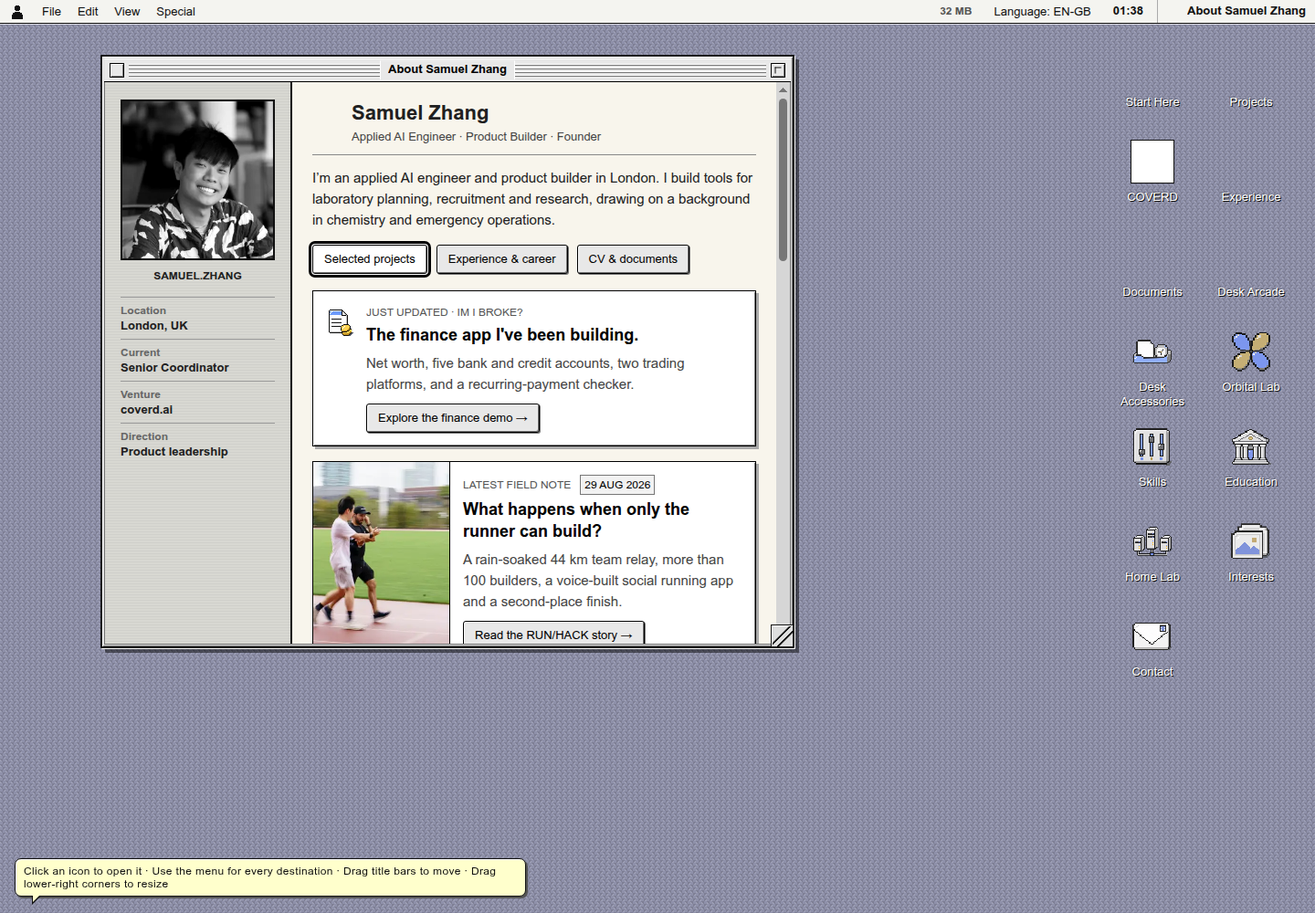
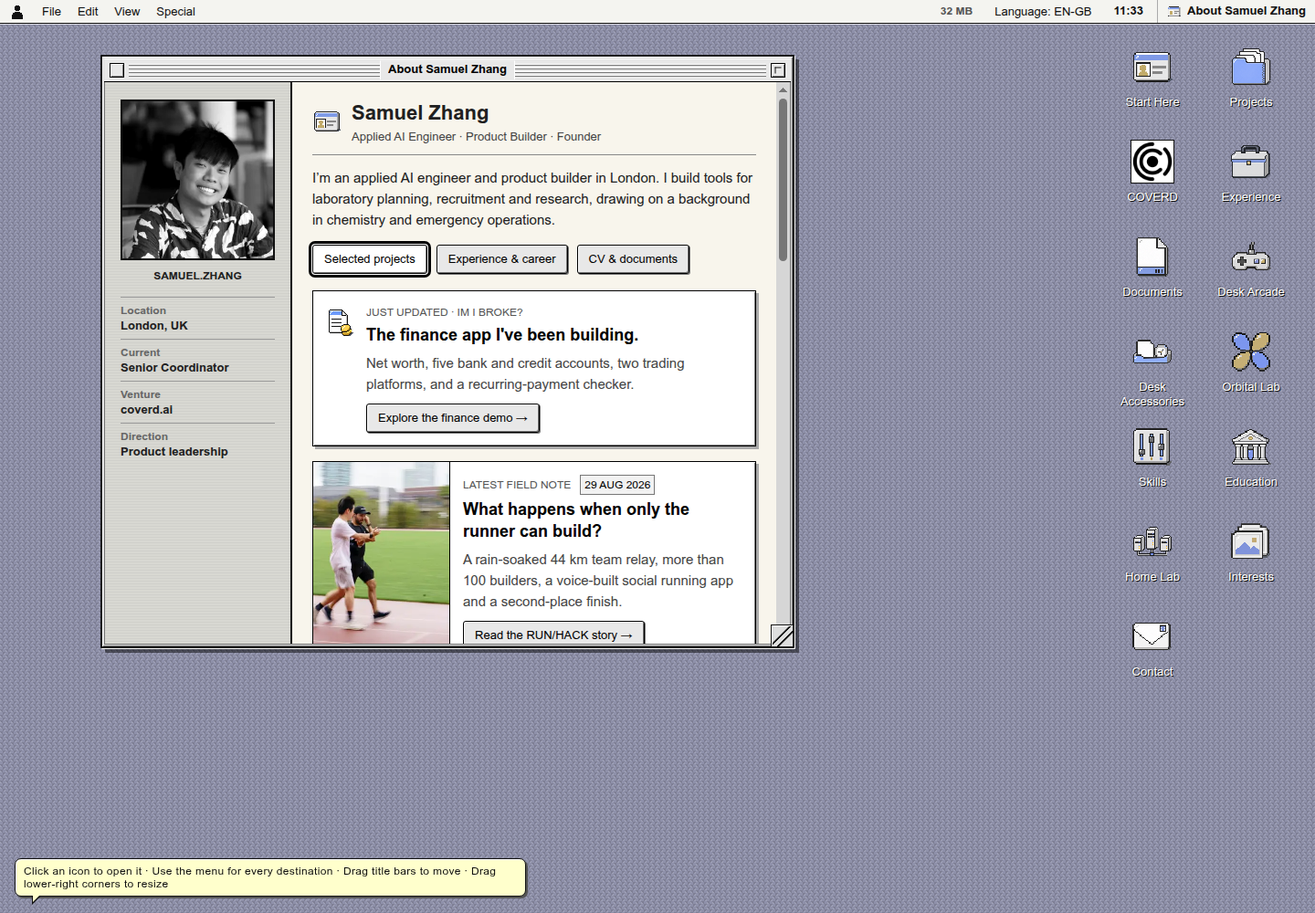
Refresh README documentation and screenshots

diff --git a/README.md b/README.md
@@ -11,13 +11,13 @@ server-side store of personal data.
 **[Browse the project archive](https://me.samuelzhang.co.uk/projects)** ·
 **[Explore Orbital Lab](https://me.samuelzhang.co.uk/orbitals)**
 
-**41 project files · 9 desk apps · 4 languages · no account required**
+**41 project files · 28 routed demos · 9 desk apps · 4 languages · no account required**
 
 [Tour](#a-quick-look) · [Apps](#the-desk-apps) · [Run locally](#local-development-on-port-5174) · [Deploy](#docker-deployment) · [Verification](#validation) · [Publication & licensing](#publication-and-licensing)
 
 Current implementation and validation: [documentation index](docs/README.md). The [verification guide](docs/VERIFICATION.md) records current checks, earlier scopes and known limits.
 
-![Samuel System 7 desktop with its About window and shared pixel icons](docs/assets/desktop.png)
+![Samuel System 7 desktop with its About window, all desktop launchers and COVERD's original logo](docs/assets/desktop.png?v=20261005)
 
 ## A quick look
 
@@ -25,7 +25,7 @@ A familiar title bar. A useful little notebook. An orbital you can turn in your
 hands. The old desktop language is the starting point; the interactions are
 built for today's browsers, keyboards and touch screens.
 
-![Searchable project list and independently scrolling project document](docs/assets/project-archive.png)
+![All 41 project files in the searchable archive beside the selected Neural CFD Surrogates document](docs/assets/project-archive.png?v=20261005)
 
 <table>
   <tr>
@@ -34,7 +34,7 @@ built for today's browsers, keyboards and touch screens.
   </tr>
   <tr>
     <td><img src="docs/assets/orbital-density.png" alt="Sharp phase-coloured probability points in Orbital Lab" width="560" /></td>
-    <td><img src="docs/assets/mobile-note-pad.png" alt="Traditional Chinese Note Pad on a phone, with aligned ruled text and clear page controls" width="240" /></td>
+    <td><img src="docs/assets/mobile-note-pad.png?v=20261005" alt="Traditional Chinese Note Pad on a phone, with saved notes, aligned ruled text and clear page controls" width="240" /></td>
   </tr>
 </table>
 
@@ -48,7 +48,12 @@ uses display-timed animation, starts paused, and respects reduced-motion setting
 
 </details>
 
-The images are reference captures. The current audit records validation of the reviewed revision. The deployed site may remain on an earlier revision until the server owner runs the deployment script.
+The desktop, project archive and mobile Note Pad were recaptured on 5 October
+2026 from a production build of the current checkout. The orbital image and
+animation remain earlier reference captures. The last recorded production deployment is
+`aed8ebc`, verified on 5 October 2026 with public HTTPS, artwork hashes and
+four-locale desktop/phone checks. The [verification guide](docs/VERIFICATION.md)
+records later checkout changes separately from that deployment.
 
 ## The desk apps
 
@@ -61,7 +66,7 @@ Every app has its own archive record; the records launch the same desktop window
 | Quick List | Small tasks, priorities and completion | Local autosave and desk backup |
 | Focus Clock | Timed focus sessions and a daily tally | Local progress and desk backup |
 | Pocket Calendar | Private notes attached to dates | Local autosave and desk backup |
-| Desk Calculator | Everyday arithmetic with a paper tape | Copy result, local tape and desk backup |
+| Desk Calculator | Chained arithmetic with a paper tape | Copy result, local tape and desk backup |
 | Unit Converter | Length, mass, temperature and decimal data units | Copy result |
 | Colour Studio | Palette swatches and contrast checks | Local swatches and desk backup |
 | Orbital Lab | ASCII, probability points and smooth orbital surfaces | Text/PNG exports with model context |
@@ -102,6 +107,7 @@ clean black-and-white structure, and familiar visual metaphors.
 - Chicago-first window/menu chrome, Geneva-first content and Monaco/Courier
   machine readouts, with language-appropriate CJK fallbacks.
 - 48 × 48 desktop launchers and primary project heading icons, 32 × 32 card/Find/Contact/phone-switcher icons, and 16 × 16 inline/menu/navigation artwork.
+- Text-only centered window and Find titles, a bounded 14px gray stripe band and larger touch hit areas. The active app icon appears on the right of the main menu bar; the black person mark and official university logos retain their own branding.
 - Slightly rounded push buttons, square pop-up menus, hard one-pixel relief,
   separate default-action and keyboard-focus rings, and restrained project
   colour. The [System 7 benchmark](docs/SYSTEM7_DESIGN_BENCHMARK.md) distinguishes
@@ -192,7 +198,8 @@ boundaries or comparable atomic sizes. The smooth surface is a sampled 1%-of-pea
 resolves high-n cores; small features below the 80-cell grid can still be omitted.
 
 The interface has all four locales, with separate Mandarin terminology for
-Mainland China and Taiwan. Element names retain their English reference labels.
+Mainland China and Taiwan. All 118 element names, accessible labels and export
+headings are localised; chemical symbols and scientific notation retain their spelling.
 The bounded sampler and renderer make no runtime third-party calls and rotation
 starts paused. Surface meshing runs in a same-origin worker with a three-entry
 cache. 3D uses WebGL and falls back to ASCII if unavailable; no account, chemistry
@@ -219,8 +226,9 @@ Open tabs in the same browser receive saved-state updates. Note Pad, Sketch Pad,
 
 ## Technology
 
-- Next.js 15 App Router
-- React 19 and TypeScript
+- Next.js 15.5.25 App Router
+- React 19.1.0 and TypeScript
+- Locally prepared PDF.js readers, KaTeX equations and deferred project search indexes
 - Hand-written CSS and generated System 7 icon artwork
 - Static generation for locale and application routes
 - Standalone, non-root Docker runtime
@@ -303,15 +311,16 @@ npm run check:release
 
 This includes deployment-script simulations, search checks, dependency auditing
 and signature verification, lint, TypeScript checking and an isolated production
-build. The build also runs the artifact, data, desk, control, orbital, catalogue,
-style, locale and output-budget gates. No production server is changed by this
+build. The build also runs the artifact, icon, data, desk, PDF, control, orbital,
+learning, scientific, catalogue, profile, graph, navigation, math, style, locale,
+project-copy and output-budget gates. No production server is changed by this
 command. You can run each `check:*` script separately while working.
 
 `npm run build` runs all portfolio gates automatically. The artifact gate rejects unexpected files and verifies reviewed assets by size, signature and SHA-256; the local-data gate pins the reviewed CSV schema and bytes; the desk-behaviour gate covers timer rollover and numeric-entry regressions against the actual shared helpers; the catalogue gate checks unique routes/demos, disclosure rules, source-licence status, local artifact paths and HTTPS references; the CSS-module gate verifies that every static project style reference resolves; and the locale gate keeps archive schemas aligned while preventing untranslated System 7 chrome, project summaries or suite descriptions from silently shipping.
 
 `npm run check:math` validates actual expressions with the strict KaTeX parser, accessible component output and local font assets. The output gate caps the shared math-renderer chunk at 300 KiB and rejects its inclusion in initial page entries. Initial-route JavaScript has a 270 KiB gzip ceiling. Application browser output has a 5 MiB ceiling excluding the separately checked math chunk; application runtime has its own 5 MiB ceiling including math. These ceilings were increased from 4 MiB for the explicit bilingual project dictionaries and are separate from initial page cost. KaTeX uses 20 local WOFF2 fonts (253.7 KiB) and 30.6 KiB of CSS.
 
-The [verification guide](docs/VERIFICATION.md) separates the latest visual checkpoint from earlier navigation, reader, accessibility and history checks. The earlier `effc55f` implementation passed its representative screenshot review and three-engine icon matrix; the later user review identified icon detail lost during export. The current pass restores native originals and checks all 28 routed demos for desktop/mobile readability. Historical results remain distinct from fresh verification. The final compiled pass includes the three-engine icon matrix, 160 demo/app journeys and focused cross-browser diagram checks. Completed raw evidence is archived outside the checkout; temporary receipts stay ignored.
+The [verification guide](docs/VERIFICATION.md) records each implementation's tested scope. The [native-artwork release](docs/VERIFICATION.md#native-artwork-release-verification-d29d92d) includes all 28 routed demos, 160 compiled demo/app journeys, the three-engine icon matrix and focused diagram checks. The [call-scheduling follow-up](docs/VERIFICATION.md#call-scheduling-follow-up) records four-locale desktop/phone link and keyboard checks. The [5 October Docker deployment](docs/VERIFICATION.md#5-october-docker-context-repair) records the actual production build and public-origin verification. Earlier navigation, reader, accessibility and history checks retain their own boundaries. Completed raw evidence is archived outside the checkout; temporary receipts stay ignored.
 
 `npm run audit:repository` produces a read-only source/asset/fixture ownership inventory. The deeper HTTP, browser, recovery and accessibility runners are documented in the current review; they use a compiled preview and external QA tools. The ordinary release build stays independent of those external browser installations.
 
@@ -358,6 +367,11 @@ material stays out. `deploy.sh` runs this check before building the image.
 These are build-only inputs; the final image copies the standalone
 application and reviewed public assets.
 
+The 5 October repair also keeps maskable-icon verification portable across native
+compositors: the gate checks source-over arithmetic and the reviewed PNG's exact
+SHA-256. The successful ARM64 Alpine deployment and the failed builds that led
+to both repairs are recorded in the [deployment evidence](docs/VERIFICATION.md#5-october-docker-context-repair).
+
 Basic manual container commands (without the script's verification/rollback):
 
 ```bash
@@ -399,6 +413,7 @@ src/data/               # Reviewed projects, profile, documents and fixtures
 src/lib/                # Identity, localization, evidence and shared calculations
 public/                 # Curated public PDFs, icons and scientific media
 scripts/                # Asset preparation and reusable release/browser checks
+scripts/fixtures/       # Validation inputs, including 30 project-copy audit receipts
 others/                 # Maintained CV authoring sources
 docs/                  # Design, provenance, workflows and verification
 LICENSE                 # Original-code reuse conditions

diff --git a/docs/VERIFICATION.md b/docs/VERIFICATION.md
@@ -38,6 +38,26 @@ The black person mark is restored at the top left. Education uses official King'
 
 Automated development captures cover the primary views of all **28 routed project demos** at 1440, 390 and 320px. The first nineteen have full en-GB/zh-TW capture matrices; the other nine have complete English matrices and additional Mandarin affected-state coverage. Changes stay in project modules: contrast, wrapping, controls, navigation and chart viewports. Scientific values, evidence qualifications and meaningful project colours are preserved. The independent judge directly inspected one desktop and one phone content state for each of all 28 demos, plus additional plot, interaction, Mandarin and branding samples. The first pass scored 9.2 coherence  / 8.7 readability and exposed calibration hover, framework metadata, insurance labels and course score-badge issues. A fresh affected-state re-review scored **9.2/10 coherence, 9.0/10 readability and 9.3/10 native icon fidelity** after repair. These are representative development grades. Independent compiled cross-review later exposed crowded Home map labels, undersized CFD schematic text and Insurance selected-state contrast. Those repairs preserve scientific values and project palettes. Compiled checks are recorded separately and screenshots do not establish production deployment.
 
+## README screenshot refresh (5 October 2026)
+
+Replaced the desktop and project-archive README captures at **1440×1000**, and the Traditional Chinese Note Pad capture at **390×844**, using an isolated optimized production build. These are native browser screenshots at device-pixel ratio 1, with no image retouching or rescaling. The desktop shows all 13 launcher identities, including COVERD's owned logo; the archive shows all 41 files beside the selected Neural CFD Surrogates document. README image URLs have a new cache revision and the captions distinguish these captures from the retained earlier orbital image/animation and the recorded production deployment.
+
+The build uses `a50289f` plus the existing working-tree changes. All **466 frozen source/asset inputs** match before compilation and after capture. `NEXT_DIST_DIR=.next-readme-screenshots npm run build` passed every prebuild gate, lint, types, optimized compilation and output validation, including the profile, graph, locale and icon checks. Output remains within unchanged limits: **120 browser files / 5.19 MiB**, **262.8 KiB initial JavaScript gzip**, and **2,063 runtime files / 4.92 MiB application runtime**. The build's temporary TypeScript include was removed afterward, restoring the original file's exact hash while preserving unrelated changes.
+
+Focused compiled **Chromium 153.0.8010.12** checks passed four capture states: English desktop/About and archive, plus Traditional Chinese Note Pad at 390px and 320px. They include **32 unoccluded canonical-icon decodes** and **19 served artwork hashes** matching the checkout, with zero page, console, HTTP or request errors and no page/pane horizontal overflow. Archive keyboard selection, search-index loading and clearing, mobile Find launch, saved note content and keyboard page turns passed. All four final images were directly viewed; the 320px supplement stays in the evidence archive. Titles, bounded stripe bands, active-app menu icons, hard shadows and phone controls remain visible. This is a focused screenshot check, not a new deployment or replacement for the historical multi-engine matrices.
+
+Failed helper receipts remain separate: waits on off-screen lazy images, including an image clipped by its scroll pane; a textbox selector for the actual searchbox; and an expected aborted index request when the helper cleared search before loading finished. The final helper waits for painted images and fonts, checks icon occlusion and completes index loading before clearing. These helper failures do not establish application defects.
+
[1 lines of base64/hex data omitted]
+
+For this documentation publication, pending calculator code and its companion copy remain unstaged. The staged versions of all three READMEs have **50 resolving local links**; screenshot/export hashes and whitespace checks pass. Earlier receipts retain their recorded working-tree scope.
+
+## README refresh — 5 October 2026
+
+All three README files now describe the current checkout: call-booking links, localised Orbital Lab names, native artwork, the recorded Docker deployment, release gates and translation-fixture maintenance. The documentation index links the icon manifest, active audit receipts, licence and reproduction instructions. Existing implementation receipts, failed attempts and known limits remain intact.
+
+Fresh checks passed: `npm run check:profile` (12 checks), `npm run check:graph` (38 checks; 106 nodes / 387 edges), `npm run check:locales`, `npm run check:catalogue`, `npm run check:project-copy` and `npm run audit:repository`. The inventory reaches all **225 application sources**, identifies all **237 public assets** and retains **30 translation receipts**, with no unresolved imports or unowned sources/assets. All **51 local file, image and heading links** in the three READMEs resolve; `git diff --check` passes. This documentation pass adds no browser, production-build or deployment evidence. Earlier runtime receipts retain their own scope.
+
 ## Contact layout simplification
 
 Contact now presents two direct destinations: a 30-minute call through YASA and email with its full address, write action and copy action. LinkedIn, GitHub and COVERD share one profile row; London remains visible. The duplicate service tabs, machine badge, network boilerplate and decorative AppleTalk status are removed. The introduction retains the same conversation topics in shorter copy, with reviewed labels in all four locales. Five explicit Contact identities reuse the native canonical artwork at 32px, including the YASA calendar and owned COVERD logo; no new artwork or sampling changes were needed. The YASA overview/demo retain their full scheduling label and exact booking URL.

diff --git a/continue.md b/continue.md
@@ -2,9 +2,13 @@
 
 The phone working-area follow-up covers all 28 routed demos plus Documents, Desk Accessories, graph, Orbital Lab and native tools/games. Separate adversarial reviews use the shared System 7 phone contract and preserve full content, data and native artwork. Final build/browser evidence, failed rounds and limitations are recorded in [verification](docs/VERIFICATION.md); reproduce the working-area regression with `npm run check:phone-space` and an external Playwright installation. Completed QA is hash-verified outside the checkout. This follow-up has not been deployed to production.
 
+The [README screenshot refresh](docs/VERIFICATION.md#readme-screenshot-refresh-5-october-2026) replaces the desktop, 41-file archive/document and Traditional Chinese mobile Note Pad images from a fresh isolated production build. All 13 desktop launchers are visible. Four Chromium capture states, including a 320px phone supplement, pass icon hashes, layout/resource and focused keyboard checks; all final images were directly viewed. The build and all prebuild gates pass on 466 unchanged source/asset inputs. Raw evidence and failed helpers are hash-verified in the archive recorded there. This does not establish another production deployment; earlier orbital captures and historical browser scopes retain their qualifications.
+
 The [Contact layout simplification](docs/VERIFICATION.md#contact-layout-simplification) replaces redundant service tabs with direct call/email actions, a visible email address and one LinkedIn/GitHub/COVERD row. It reuses five canonical 32px icons and reviewed four-locale copy. An isolated optimized build and all prebuild gates pass; 24 profiles across three browsers verify 120 icons, 72 clipboard cases, 72 keyboard popups and 36 layouts. Completed evidence, including failed resize-helper attempts, is hash-verified outside the checkout. The YASA booking destination is unchanged; this follow-up has not been deployed.
 
 Read [verification and known limits](docs/VERIFICATION.md), [README](README.md) and [the documentation index](docs/README.md). This handoff records current maintenance instructions; earlier chronological reviews remain recoverable from Git history.
+
+All three README files now reflect the current features, localised Orbital Lab names, native artwork, deployment repairs and translation-fixture contracts. Fresh profile, graph, locale, catalogue, project-copy and ownership checks pass, along with all 51 local README links and whitespace checks. This was a documentation-only pass; browser, build and deployment evidence retains its recorded scope in [the README refresh receipt](docs/VERIFICATION.md#readme-refresh--5-october-2026).
 
 The earlier call-scheduling follow-up at `a50289f` added a shared, localized System 7 link to every Contact service tab, the YASA overview and its interactive-demo toolbar. The current Contact layout above replaces those tabs. Its exact destination is `https://schedule.coverd.ai/book/samuel/30mins-chat`, opening a new tab. Lint, production build/prebuild gates and output limits pass. Compiled Chromium checks pass 16 YASA journeys plus eight button profiles with 24 link surfaces, Contact tab checks and keyboard popups across all four locales at 1440/320px. Screenshot review confirms the phone and desktop layouts. The remote GET returned 200; routing checks intercept the popup response and do not test booking confirmation. Failed helper attempts remain distinct from passing receipts.
 
@@ -12,7 +16,7 @@ The current implementation restores all 41 untouched 1254px generated icon origi
 
 All 28 routed demos receive desktop and narrow mobile readability review across their primary views. Contrast, chart viewports, navigation, wrapping and controls change locally; scientific values, content and meaningful project palettes remain. The strict release, three-engine icon matrix and compiled demo/app journeys pass. The final 48-profile three-engine diagram/selected-state review also passes; independent affected-state visual grades meet 9+/10. Fresh scopes and historical limitations are kept separately in the verification guide. Earlier 9.1 grades at `effc55f` do not grade the restored native artwork.
 
-Cleanup consolidates the dated audit, removes the inactive media wishlist and obsolete inventory exclusions. The current inventory reaches all 225 application sources, including the shared call link and finds owners for all 237 public assets. Thirty translation audit JSONs are active gate inputs; scientific originals, CV authoring sources, browser derivatives and reusable QA runners remain. Git history retains the full earlier documentation at `effc55f`.
+Cleanup consolidates the dated audit, removes the inactive media wishlist and obsolete inventory exclusions. The current inventory reaches all 225 application sources, including the shared call link, and finds owners for all 237 public assets. Thirty translation audit JSONs are active gate inputs; scientific originals, CV authoring sources, browser derivatives and reusable QA runners remain. Git history retains the full earlier documentation at `effc55f`.
 
 Completed raw reviews move outside the checkout into hash-verified local archives under `~/.local/share/samuel-homepage/review-archive/`, preserving failures as well as passing evidence. Temporary receipts belong under ignored `.codex/reports/`.
 

diff --git a/docs/README.md b/docs/README.md
@@ -1,6 +1,10 @@
 # Documentation
 
-[README](../README.md) covers the product, setup and deployment. [Continue here](../continue.md) records the verified release checkpoint and review boundaries.
+[README](../README.md) covers the product, local setup, release checks and Docker deployment. [Continue here](../continue.md) records the current maintenance handoff and review boundaries. [AGENTS.md](../AGENTS.md) contains the repository's working instructions.
+
+The current portfolio has 41 project records, 28 routed project demos, nine desk apps, four locales, five library documents and 18 evidence-backed capabilities. The profile graph contains 106 nodes and 387 edges. Recent work restores the native icon originals, improves desktop/phone demo readability, adds Contact/YASA call-booking links.
+
+The last recorded production deployment is `aed8ebc` on 5 October 2026. Its Docker-context and maskable-icon repairs, full build and focused public-origin checks are [recorded separately](VERIFICATION.md#5-october-docker-context-repair) from later checkout changes. Read each verification section's scope before treating it as evidence for a newer revision.
 
 | Document | Purpose |
 | --- | --- |
@@ -9,7 +13,12 @@
 | [Translation workflow](PROJECT_COPY_WORKFLOW.md) | Four locales, dynamic labels, source-language exceptions and checks |
 | [System 7 design benchmark](SYSTEM7_DESIGN_BENCHMARK.md) | Maintained design contracts and primary historical sources |
 | [Artwork guide](PROJECT_ARTWORK.md) | Delivered illustrations/icons, original prompts and MRI provenance |
+| [Icon provenance manifest](SYSTEM7_ICON_PROMPTS.json) | Canonical subject prompts, source/delivery hashes and native-artwork recovery |
 | [Project source record](PROJECT_SOURCE_RECORD.md) | Original repository revisions, file hashes and recorded scientific outcomes |
+| [Project-copy audit receipts](../scripts/fixtures/project-copy-audits/README.md) | Check-only dictionary registrations, source inventories and explained source-language identities |
+| [Licence](../LICENSE) | Attribution, non-commercial use and free share-alike terms for original code |
 | [Third-party notices](../THIRD_PARTY_NOTICES.md) | Dependency and scientific-source licences/attribution |
+
+For profile or document changes, start with the profile workflow and run `npm run check:profile`, `npm run check:graph` and `npm run check:locales`. Copy changes also need `npm run check:project-copy`; icon changes need `npm run check:icons` and the compiled browser audit. Run `npm run check:release` before release. The verification guide's [reproduction instructions](VERIFICATION.md#reproduce) list the external browser tools and maintained runners; the ordinary build does not require them.
 
 Temporary review logs and screenshots belong under ignored `.codex/reports/`. Update the verification guide and concise handoff instead of adding overlapping dated reports. Archive completed local evidence outside the checkout, preserving failed attempts and their hashes. Keep scientific source records, licences and reusable QA fixtures with their consumers.

diff --git a/scripts/fixtures/project-copy-audits/README.md b/scripts/fixtures/project-copy-audits/README.md
@@ -1,5 +1,27 @@
 # Project copy audit receipts
 
-These JSON files register translation dictionaries, component/data sources and explained untranslated names for `scripts/check-project-copy.mjs`. Rendered localization checks also read their identity declarations. They are validation input, separate from the runtime dictionaries under `src/components/projects/copy/`.
+The 30 `*.audit.json` files register translation dictionaries, component/data sources and explained source-language identities for [the project-copy gate](../../check-project-copy.mjs). Rendered localisation checks also read their identity declarations. They are validation input, separate from the runtime dictionaries under `src/components/projects/copy/`, and remain active consumers in the repository ownership inventory.
 
 On 4 October 2026 the 30 receipts moved here without byte changes. Their `dictionary` values still resolve within `src/components/projects/copy/`; their `sources` and `dataSources` remain repository-relative. See [the translation workflow](../../../docs/PROJECT_COPY_WORKFLOW.md) before updating a receipt or dictionary together.
+
+| Field | Contract |
+| --- | --- |
+| `dictionary` | Dictionary filename relative to `src/components/projects/copy/` |
+| `exportName` | The dictionary's named export |
+| `sources` | Repository-relative component paths with explicit `ProjectCopy` render scopes |
+| `dataSources` | Optional repository-relative data paths whose authored strings are also inventoried |
+| `identities` | Source strings mapped to reviewed reasons for keeping proper names, code or scientific identifiers unchanged |
+
+When adding or changing project copy, update the relevant dictionary and receipt together. Keep explicit Simplified/Traditional Chinese pairs, preserve template placeholders and explain each untranslated identity. Do not register ordinary explanatory prose as a source-language exception. Shared desktop strings, such as the Contact/YASA call-booking label, belong in `src/lib/i18n.ts` rather than an unrelated demo dictionary.
+
+From the repository root, run:
+
+```bash
+npm run check:project-copy
+npm run check:locales
+npm run audit:repository
+```
+
+The copy gate scans this directory for `*.audit.json`; an empty registry fails. It validates registered exports, bilingual entries, placeholders, identity explanations and authored-source coverage. The full command also runs rendered MRI, learning, physical-science and project-narrative localisation checks. Passing these gates establishes their registered scope; review changed interactive states in both Mandarin editions and at a narrow viewport as described in [the verification guide](../../../docs/VERIFICATION.md).
+
+Keep reusable receipts here. Temporary screenshots and QA logs belong under ignored `.codex/reports/`; archive completed evidence outside the checkout with verified hashes.
